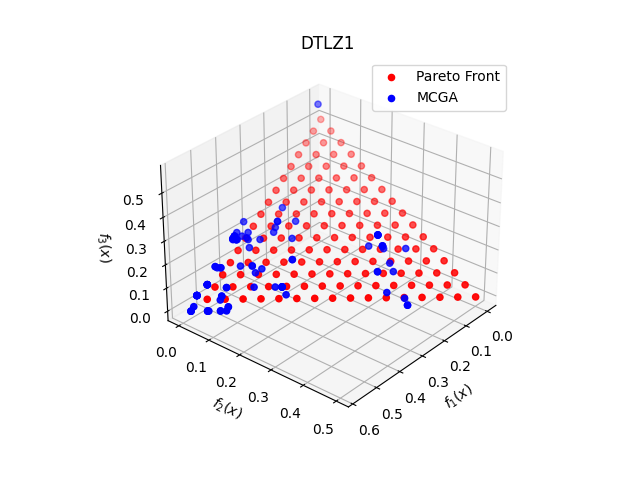
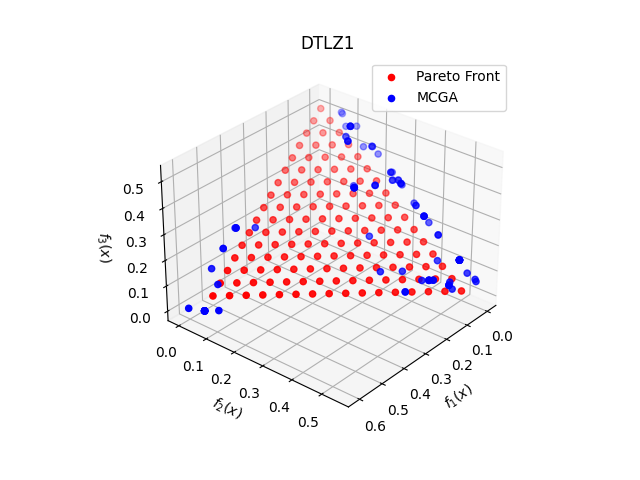
change the polar slice limits.

diff --git a/mcga/model.py b/mcga/model.py
@@ -14,17 +14,17 @@ class MCGA(NSGA2):
     """
 
     def __init__(
-        self,
-        moop: MOOP,
-        num_generation: int,
-        population_size: int,
-        crossover_probability: float = 0.9,
-        tournament_size: int = 2,
-        eta_crossover: float = 1.0,
-        eta_mutation: float = 1.0,
-        polar_offset_limit: np.float64 = 2 * np.pi,
-        num_max_sectors: int = 10,
-        front_frequency_threshold: float = 0.1,
+            self,
+            moop: MOOP,
+            num_generation: int,
+            population_size: int,
+            crossover_probability: float = 0.9,
+            tournament_size: int = 2,
+            eta_crossover: float = 1.0,
+            eta_mutation: float = 1.0,
+            polar_offset_limit: np.float64 = 2 * np.pi,
+            num_max_sectors: int = 10,
+            front_frequency_threshold: float = 0.1,
     ):
         super().__init__(
             moop,
@@ -41,13 +41,21 @@ class MCGA(NSGA2):
         self.front_frequency_difference: float = np.inf
         self.front_frequency_threshold: float = front_frequency_threshold
 
-    def divide_planes(self):
+    def divide_planes(self, population: Population):
         """
         Create sectors in polar space,
         each sector is a tuple of (start, end) angles in n-dimensional polar space
         where n is the number of objectives
         :return: The sectors
         """
+
+        min_polar_objectives = np.min(
+            [member.polar_objective_values for member in population.population], axis=0
+        )[1:]
+
+        max_polar_objectives = np.max(
+            [member.polar_objective_values for member in population.population], axis=0
+        )[1:]
 
         # create a list of sectors
         sectors_points = []
@@ -57,7 +65,8 @@ class MCGA(NSGA2):
             num_sectors = random.randint(
                 2 * self.num_max_sectors // 3, self.num_max_sectors
             )
-            sector = [random.uniform(0, 2 * np.pi) for _ in range(num_sectors)]
+            sector = [random.uniform(max(0, min_polar_objectives[i] - EPSILON),
+                                     min(2 * np.pi, max_polar_objectives[i] + EPSILON)) for _ in range(num_sectors)]
             sector = sorted(sector)
             sector = np.array(sector)
             sectors_points.append(sector)
@@ -66,12 +75,12 @@ class MCGA(NSGA2):
         # now create the (start, end) tuples for each sector
         for i in range(self.moop.num_objectives - 1):
             sectors.append(
-                [(0, sectors_points[i][0])]
+                [(max(0, min_polar_objectives[i] - EPSILON), sectors_points[i][0])]
                 + [
                     (sectors_points[i][j], sectors_points[i][j + 1])
                     for j in range(len(sectors_points[i]) - 1)
                 ]
-                + [(sectors_points[i][-1], 2 * np.pi)]
+                + [(sectors_points[i][-1], min(2 * np.pi, max_polar_objectives[i] + EPSILON))]
             )
 
         # now rotate the sectors to create the offset
@@ -106,7 +115,7 @@ class MCGA(NSGA2):
         if population is None:
             population = self.population
 
-        plane_sectors = self.divide_planes()
+        plane_sectors = self.divide_planes(population)
 
         # create the sector in polar space
         sectors = self.create_sectors(plane_sectors)
@@ -153,7 +162,7 @@ class MCGA(NSGA2):
         self.mc_nds(sliced_population)
 
     def compute_front_frequency_difference(
-        self, population: Population = None, cached_population: Population = None
+            self, population: Population = None, cached_population: Population = None
     ) -> None:
         """
         Compute the difference between the front frequencies of the cached population and the current population

diff --git a/nsga2/utils.py b/nsga2/utils.py
@@ -72,7 +72,7 @@ def cartesian_to_polar(x):
     x1 = x[:, 0]
     x2 = x[:, 1]
 
-    r = np.sqrt(x1**2 + x2**2)
+    r = np.sqrt(x1 ** 2 + x2 ** 2)
     theta = np.arctan2(x2, x1)
     # theta = np.arctan(x2 / x1)
 
@@ -89,7 +89,7 @@ def to_polar(_x):
     x = np.copy(_x)
 
     # compute the radius
-    r = np.sqrt(np.sum(x**2, axis=1))
+    r = np.sqrt(np.sum(x ** 2, axis=1))
 
     # compute the angles
     theta = np.zeros((x.shape[0], x.shape[1] - 1))
@@ -138,7 +138,7 @@ def vector_to_polar(_x):
     x = np.copy(_x)
 
     # compute the radius
-    r = np.sqrt(np.sum(x**2))
+    r = np.sqrt(np.sum(x ** 2))
 
     # compute the angles
     theta = np.zeros((len(x) - 1))
@@ -190,3 +190,6 @@ def generate_color():
     for i in range(6):
         color += random.choice("0123456789ABCDEF")
     return color
+
+
+EPSILON = 1e-2
